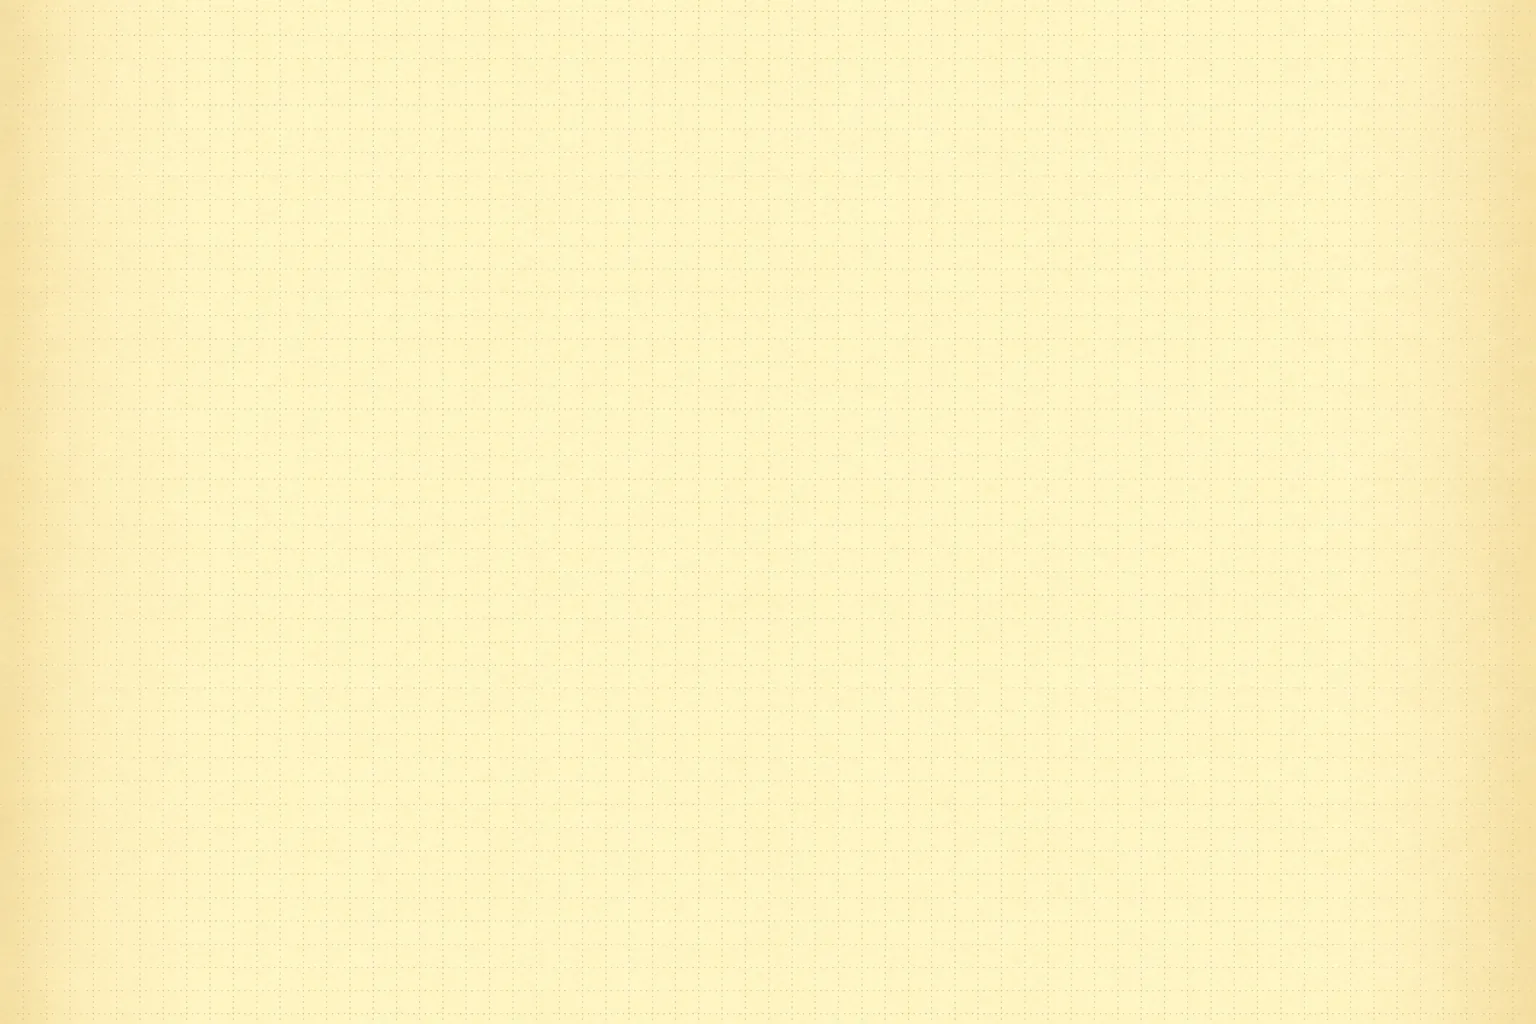
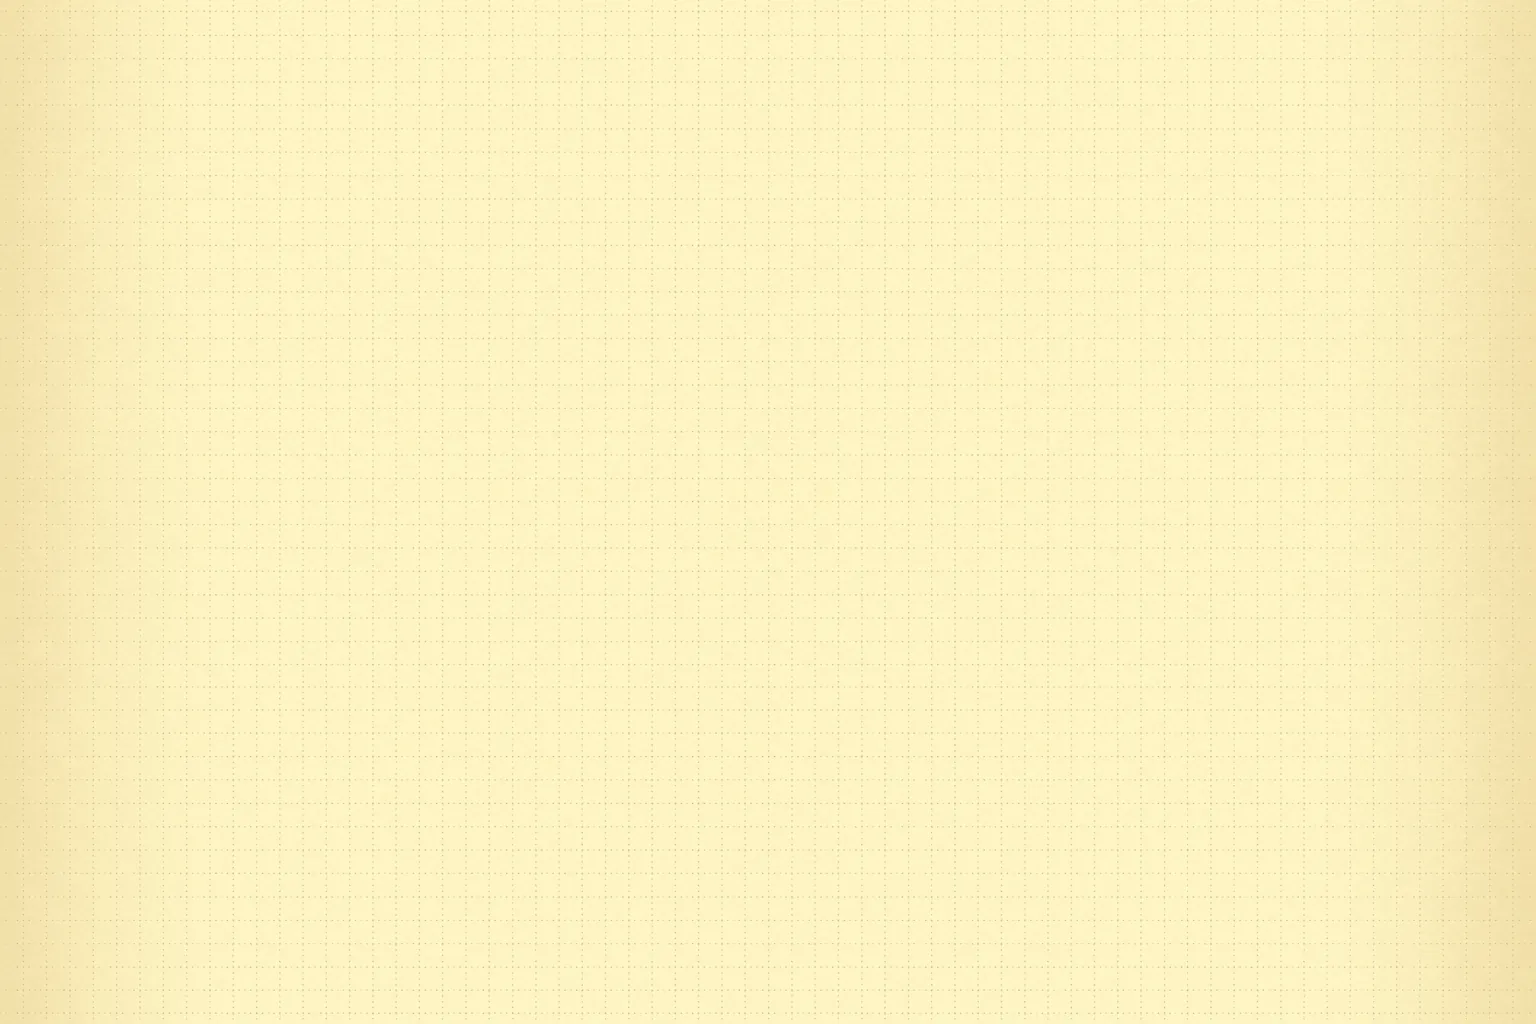
事業内容カードを角丸にし、5領域を色紙で差別化
- カードの角丸を18pxに、ボタンをピル型に変更
- 提供された紙テクスチャから色違いを生成（青・緑・紫・ロゼ）。
  いただいた黄色と同じ乗算強度で作成しているため、
  ドットの方眼・周囲の陰影・濃さはすべて共通
- 領域ごとに意味の合う色を割当
  電気=黄 / 空調=青 / 換気=緑 / 弱電=紫 / 防災=ロゼ

Claude-Session: https://claude.ai/code/session_019qgjHrnE74vSFvfshKYKVw

diff --git a/assets/css/style.css b/assets/css/style.css
@@ -672,8 +672,8 @@ a.card { display: block; color: inherit; }
   color: inherit;
   overflow: hidden;
   border: 1px solid rgba(8,25,43,.16);
-  border-radius: 2px;
-  /* 白い方眼紙 */
+  border-radius: 18px;
+  /* 既定は白い方眼紙 */
   background-color: #FDFBF6;
   background-image: url("../img/bg-paper-white.jpg");
   background-image: image-set(
@@ -683,13 +683,32 @@ a.card { display: block; color: inherit; }
   background-position: center;
   transition: transform .3s var(--ease), border-color .3s var(--ease), box-shadow .3s var(--ease);
 }
-/* 主力＝黄色い方眼紙 */
-.service-card--yellow {
-  background-color: #FBF0C4;
+
+/* 領域ごとの色紙。テクスチャは同一で色だけが違う */
+.service-card[data-paper="yellow"] {
+  background-color: #FCF3C2;
   background-image: url("../img/bg-paper-yellow.jpg");
-  background-image: image-set(
-    url("../img/bg-paper-yellow.webp") type("image/webp"),
-    url("../img/bg-paper-yellow.jpg") type("image/jpeg"));
+  background-image: image-set(url("../img/bg-paper-yellow.webp") type("image/webp"), url("../img/bg-paper-yellow.jpg") type("image/jpeg"));
+}
+.service-card[data-paper="blue"] {
+  background-color: #DAECF4;
+  background-image: url("../img/bg-paper-blue.jpg");
+  background-image: image-set(url("../img/bg-paper-blue.webp") type("image/webp"), url("../img/bg-paper-blue.jpg") type("image/jpeg"));
+}
+.service-card[data-paper="green"] {
+  background-color: #DDF3DD;
+  background-image: url("../img/bg-paper-green.jpg");
+  background-image: image-set(url("../img/bg-paper-green.webp") type("image/webp"), url("../img/bg-paper-green.jpg") type("image/jpeg"));
+}
+.service-card[data-paper="purple"] {
+  background-color: #EBDFF2;
+  background-image: url("../img/bg-paper-purple.jpg");
+  background-image: image-set(url("../img/bg-paper-purple.webp") type("image/webp"), url("../img/bg-paper-purple.jpg") type("image/jpeg"));
+}
+.service-card[data-paper="rose"] {
+  background-color: #FCDFD5;
+  background-image: url("../img/bg-paper-rose.jpg");
+  background-image: image-set(url("../img/bg-paper-rose.webp") type("image/webp"), url("../img/bg-paper-rose.jpg") type("image/jpeg"));
 }
 .service-card--main {
   grid-column: span 3;
@@ -757,7 +776,7 @@ a.card { display: block; color: inherit; }
   height: 52px;
   padding: 0 var(--s-4);
   border: 1px solid var(--ink);
-  border-radius: 2px;
+  border-radius: var(--radius-pill);
   font-family: var(--font-util);
   font-size: 15px;
   letter-spacing: .12em;

diff --git a/index.html b/index.html
@@ -102,7 +102,7 @@
     </div>
 
     <div class="service-bento">
-      <a class="service-card service-card--main service-card--yellow" href="service/#denki" style="--i:0">
+      <a class="service-card service-card--main" href="service/#denki" data-paper="yellow" style="--i:0">
         <span class="service-label"><span class="service-label__text">ELECTRICAL</span></span>
         <svg class="service-card__icon" viewBox="0 0 24 24" aria-hidden="true">
           <rect x="4" y="4" width="16" height="16" rx="1"></rect>
@@ -121,7 +121,7 @@
         <span class="service-card__btn">詳しく見る</span>
       </a>
 
-      <a class="service-card service-card--main service-card--yellow" href="service/#kucho" style="--i:1">
+      <a class="service-card service-card--main" href="service/#kucho" data-paper="blue" style="--i:1">
         <span class="service-label"><span class="service-label__text">AIR CONDITIONING</span></span>
         <svg class="service-card__icon" viewBox="0 0 24 24" aria-hidden="true">
           <circle cx="12" cy="12" r="9"></circle>
@@ -142,7 +142,7 @@
         <span class="service-card__btn">詳しく見る</span>
       </a>
 
-      <a class="service-card" href="service/#kanki" style="--i:2">
+      <a class="service-card" href="service/#kanki" data-paper="green" style="--i:2">
         <span class="service-label"><span class="service-label__text">VENTILATION</span></span>
         <svg class="service-card__icon" viewBox="0 0 24 24" aria-hidden="true">
           <g class="ic-wind">
@@ -156,7 +156,7 @@
         <span class="service-card__btn">詳しく見る</span>
       </a>
 
-      <a class="service-card" href="service/#jakuden" style="--i:3">
+      <a class="service-card" href="service/#jakuden" data-paper="purple" style="--i:3">
         <span class="service-label"><span class="service-label__text">COMMUNICATION</span></span>
         <svg class="service-card__icon" viewBox="0 0 24 24" aria-hidden="true">
           <circle class="ic-copper" cx="12" cy="12" r="1.8"></circle>
@@ -172,7 +172,7 @@
         <span class="service-card__btn">詳しく見る</span>
       </a>
 
-      <a class="service-card" href="service/#bosai" style="--i:4">
+      <a class="service-card" href="service/#bosai" data-paper="rose" style="--i:4">
         <span class="service-label"><span class="service-label__text">FIRE SAFETY</span></span>
         <svg class="service-card__icon" viewBox="0 0 24 24" aria-hidden="true">
           <circle cx="12" cy="12" r="9"></circle>
